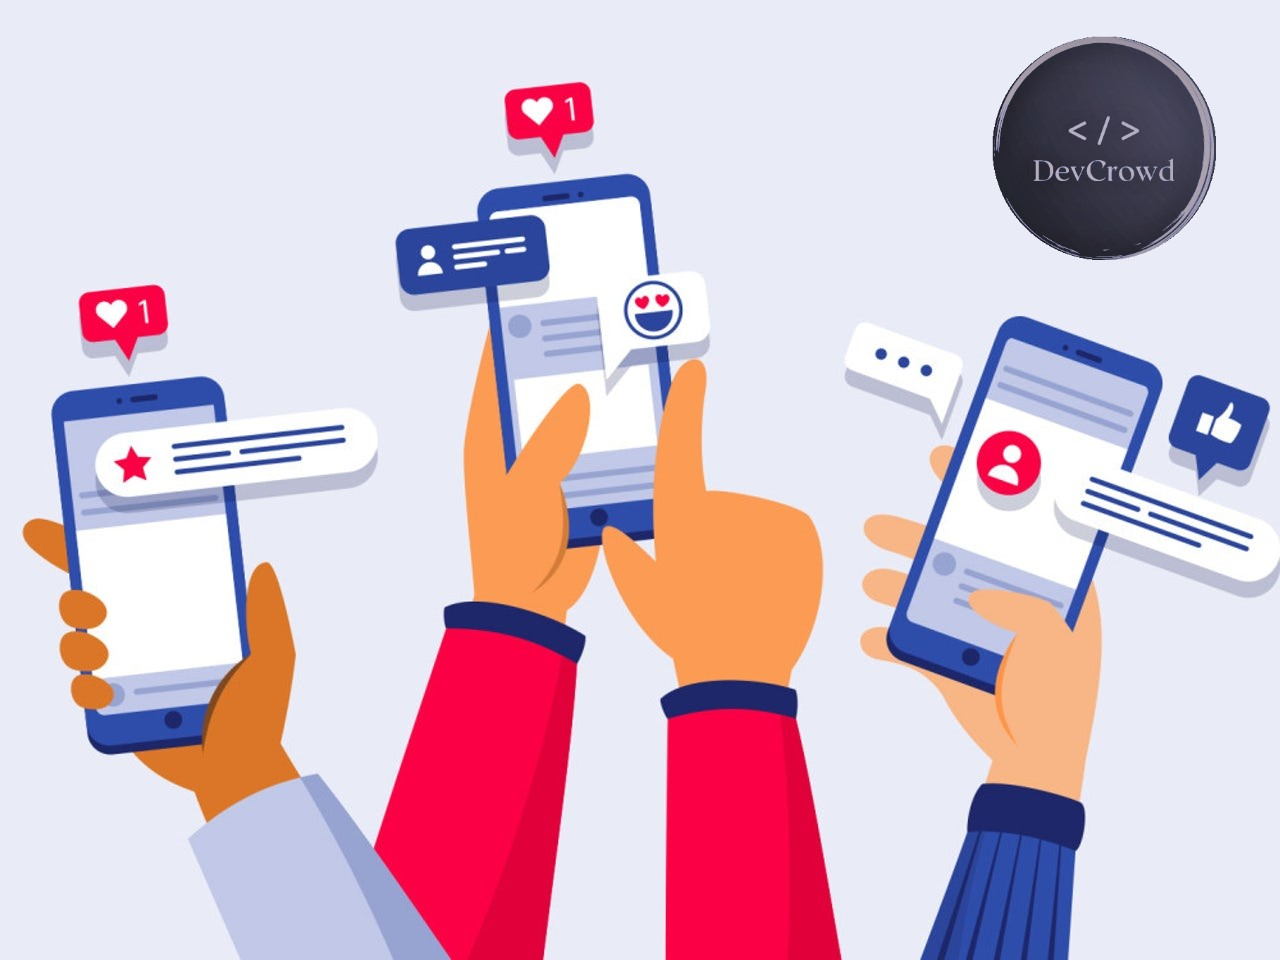
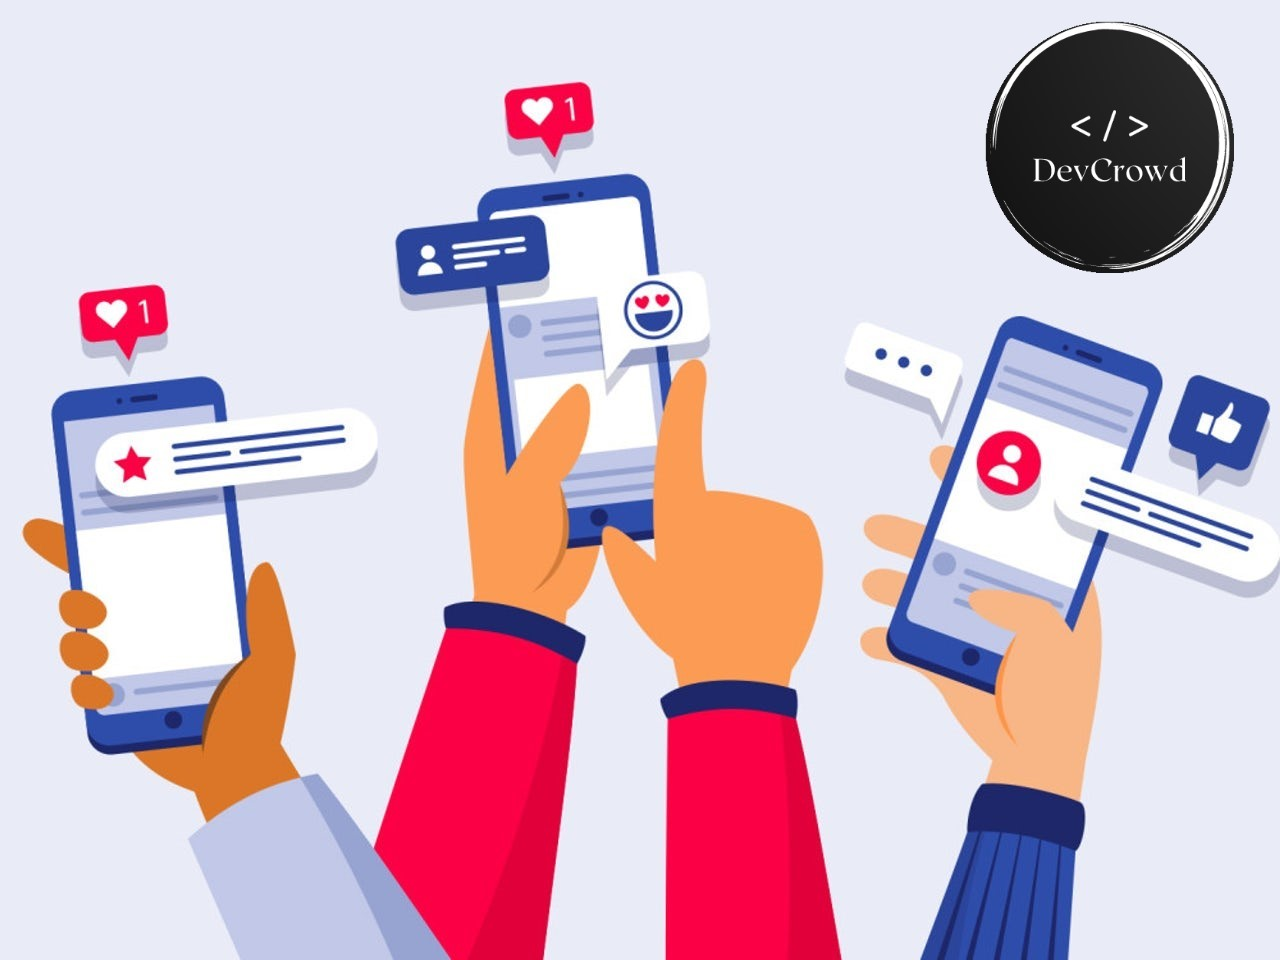
changes to footer and homepage

Changed region(s): [[0.75, 0.0312, 0.9688, 0.2812]]

diff --git a/client/src/pages/Home.js b/client/src/pages/Home.js
@@ -1,5 +1,5 @@
 import React from "react";
-import logo1 from "../Assets/images/logo1.png";
+import logo1 from "../Assets/images/logo-black.png";
 import developer_hands from "../Assets/images/developer_hands.jpg";
 import social_media from "../Assets/images/social_media.jpg";
 import Container from "react-bootstrap/Container";

diff --git a/client/src/components/Footer/style.css b/client/src/components/Footer/style.css
@@ -1,7 +1,7 @@
 .footer {
-   background-color: navy;
-   position: sticky;
-   height: 22px;
+   background-color:#212529;
+   position: fixed;
+   height: 35px;
    bottom: 0;
    width: 100%;
 }
